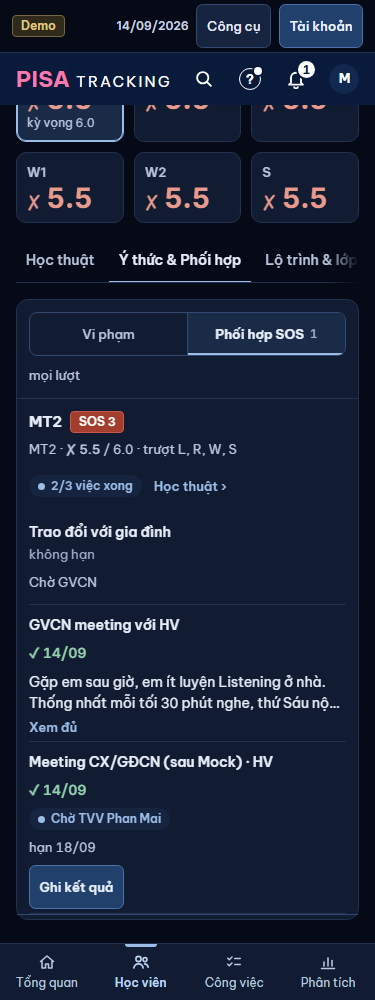
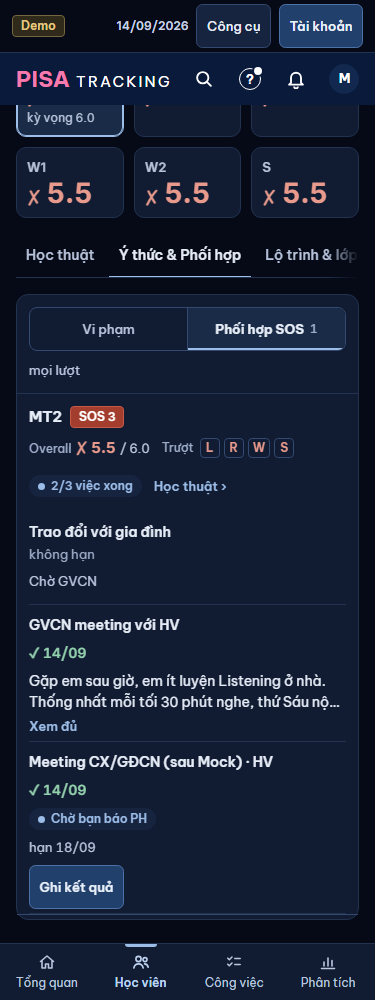
PHOI-HOP-V2 PR-2: ảnh + KHÁC dòng điểm chia loại (chủ SP 12/11)

diff --git a/thiet-ke/2026-11-11-phoi-hop-sos-v2/khop-khac-hoso.md b/thiet-ke/2026-11-11-phoi-hop-sos-v2/khop-khac-hoso.md
@@ -34,3 +34,9 @@ Seed 14/09/2026 · MB FT 101 · GVCN Trần Ngọc Hà · GVBM Phạm Thu Trang 
 | Đọc kết quả (GV, GVBM, TVV) | không hiện | ③ |
 
 Bỏ chữ thừa: "Học thuật theo dõi ở bảng kỹ năng", nhãn "Đang làm" / "Xong", "Còn: …".
+
+## Chủ SP rà ảnh 12/11 (không mockup lại)
+| Chỗ | Mockup #1368 | Web | |
+|---|---|---|---|
+| Dòng phụ dưới tên em / lượt | một chuỗi "MT4 · ✗ 5.0 / 6.5 · trượt L, R, W, S" | CHIA LOẠI (cùng thành phần `DiemMotDong` với panel Công việc): thẻ lượt · "Overall" mờ + số ✗ / ✓ ba màu + "/ kỳ vọng" · "Trượt" mờ + chip L R W S; hồ sơ HV bỏ thẻ lượt (ô đã ghi MT2); xuống dòng giữa các khối, không cắt | KHÁC — chủ SP 12/11 |
+Ảnh: `anh-cap/hs-lop-1440-diem-web.png`, `anh-cap/hs-hv-1440-diem-web.png`, `anh-cap/hs-lop-375-gvcn-web.png`, `anh-cap/hs-hv-375-tvv-web.png`.
